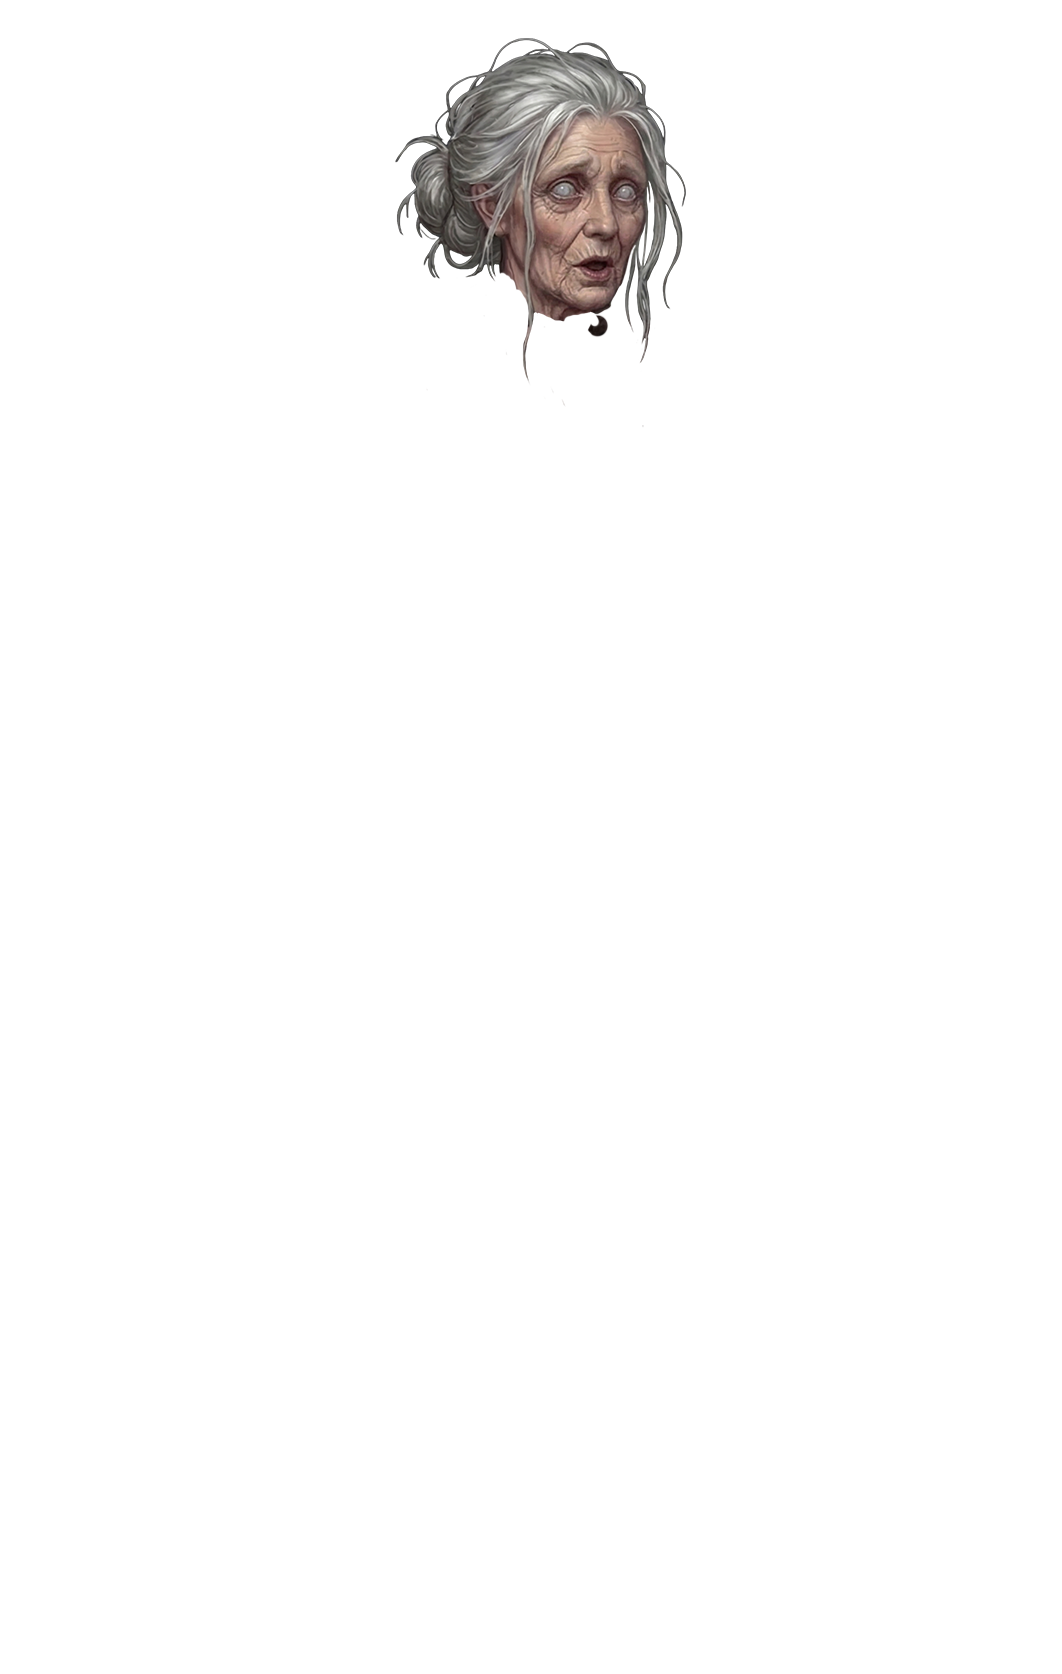
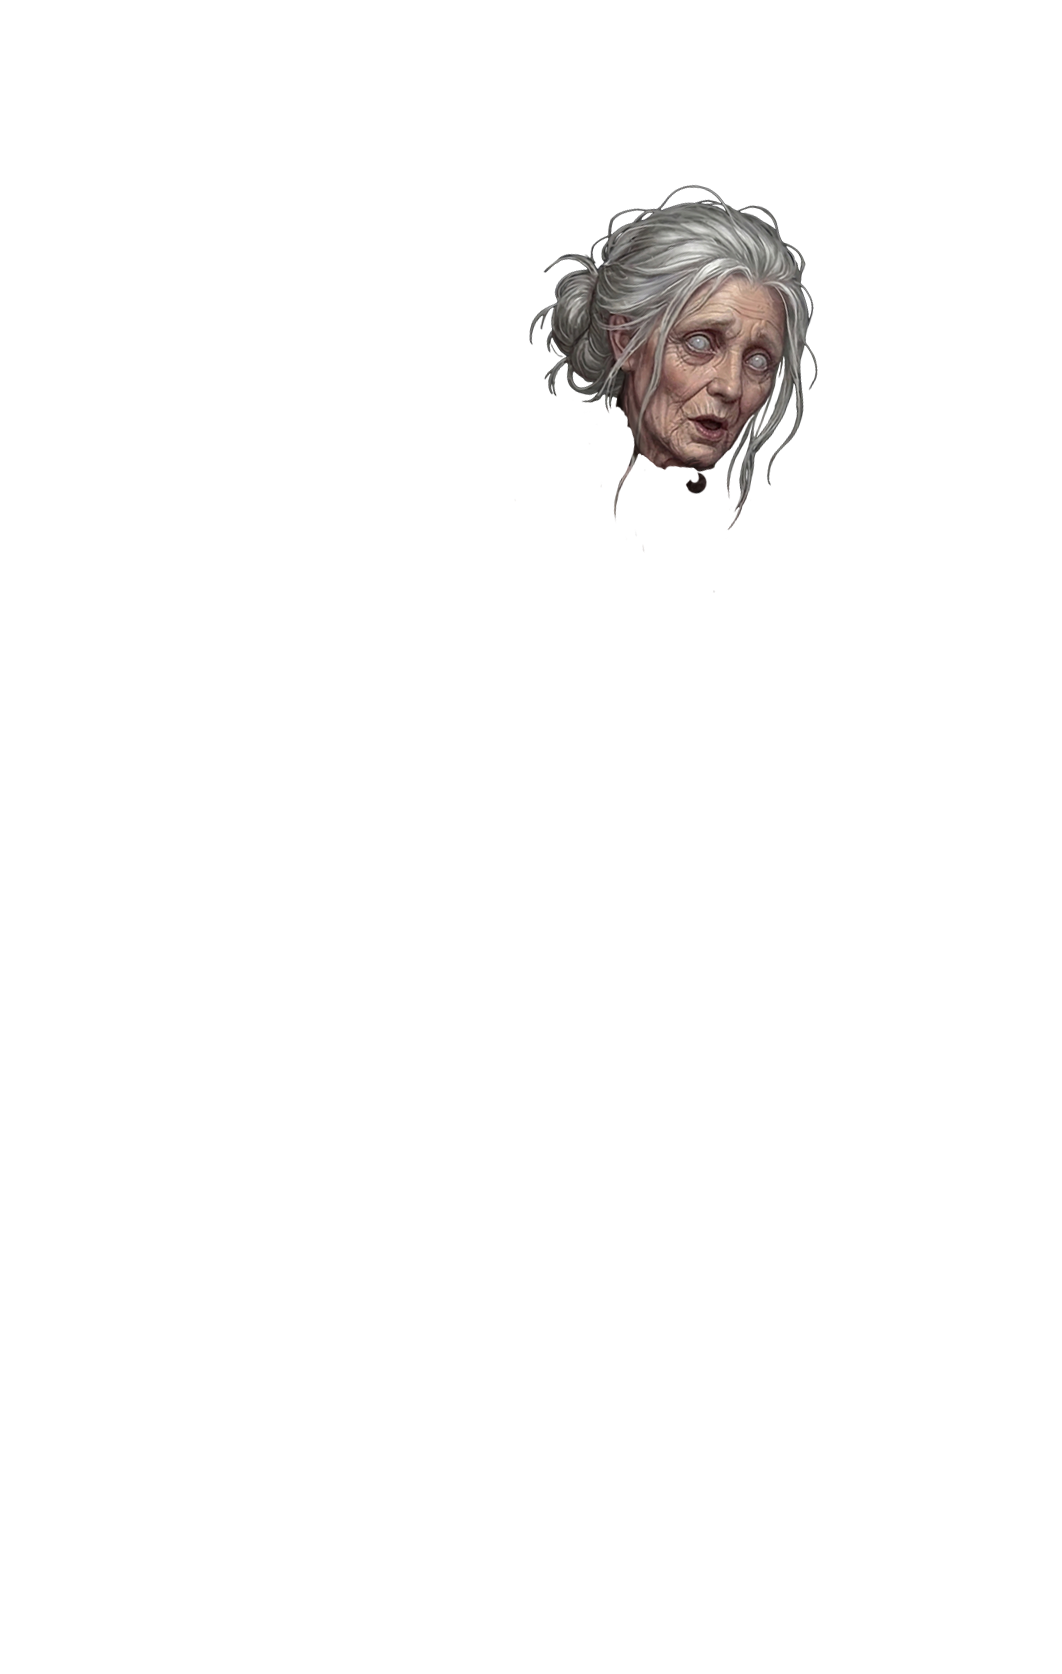
Fix chapter 3 crone visibility, placeholder maze screen, and background timing
- Add showPlaceholderScreen() for mid-dialogue full-screen placeholder cards
- Chapter 3: replace maze narrator line with placeholder screen
- Chapter 3: set clockmakers_guild_door background on watchmaker's guild line
- Chapter 3: fix crone characterFolders mapping and addie_home expression key
- Chapter 3: fix multiple JSON syntax errors (trailing commas, missing braces)
- Show chapter title card immediately at full opacity to prevent background flash
- Update crone images; rename crone_default_neutra.png → crone_default_neutral.png

Changed region(s): [[0.3729, 0.0311, 0.7768, 0.3106]]

diff --git a/src/scenes/ChapterScene.js b/src/scenes/ChapterScene.js
@@ -261,11 +261,8 @@ export default class ChapterScene extends Phaser.Scene {
         this.audioManager.playMusic(this.chapterData.assets.music);
       }
 
-      // Fade in, then show chapter title card
-      this.cameras.main.fadeIn(800, 0, 0, 0);
-      this.time.delayedCall(800, () => {
-        this.showChapterTitle(() => this.startNarrative());
-      });
+      // Show chapter title card immediately (covers background/characters), then start narrative on dismiss
+      this.showChapterTitle(() => this.startNarrative());
     }).catch(error => {
       console.error('Error loading chapter:', error);
       this.loadingText.setText('Failed to load chapter. Returning to menu...');
@@ -914,7 +911,7 @@ export default class ChapterScene extends Phaser.Scene {
     const w = this.cameras.main.width;
     const h = this.cameras.main.height;
 
-    const overlay = this.add.container(0, 0).setDepth(500).setAlpha(0);
+    const overlay = this.add.container(0, 0).setDepth(500).setAlpha(1);
 
     const bg = this.add.rectangle(w / 2, h / 2, w, h, 0x000000, 0.95);
     overlay.add(bg);
@@ -943,9 +940,6 @@ export default class ChapterScene extends Phaser.Scene {
     }).setOrigin(0.5);
     overlay.add(tapText);
     this.tweens.add({ targets: tapText, alpha: 0, duration: 900, yoyo: true, repeat: -1, ease: 'Sine.easeInOut' });
-
-    // Fade in overlay
-    this.tweens.add({ targets: overlay, alpha: 1, duration: 600 });
 
     // Tap anywhere to dismiss
     const hitZone = this.add.rectangle(w / 2, h / 2, w, h, 0x000000, 0).setDepth(501).setInteractive();
@@ -1060,7 +1054,67 @@ export default class ChapterScene extends Phaser.Scene {
     this.dialogueBox.add([bg, this.speakerText, this.dialogueText, this.continueIndicator]);
   }
 
+  showPlaceholderScreen(line, onComplete) {
+    const width = this.cameras.main.width;
+    const height = this.cameras.main.height;
+
+    if (line.background && this.backgroundImage) {
+      this.changeBackground(line.background);
+    }
+
+    if (line.hideCharacters === true) {
+      this.hideAllCharacters();
+    }
+
+    const overlay = this.add.rectangle(width / 2, height / 2, width, height, 0x000000, 0.92)
+      .setDepth(600)
+      .setInteractive();
+
+    const text = this.add.text(width / 2, height / 2 - 40, line.placeholder, {
+      fontSize: '28px',
+      fontFamily: 'Courier New',
+      color: '#c4a575',
+      align: 'center',
+      wordWrap: { width: width - 120 }
+    }).setOrigin(0.5).setDepth(601);
+
+    const clickHint = this.add.text(width / 2, height / 2 + 80, '[ Click to continue ]', {
+      fontSize: '20px',
+      fontFamily: 'Courier New',
+      color: '#888888',
+      fontStyle: 'italic'
+    }).setOrigin(0.5).setDepth(601);
+
+    // Blink the hint
+    this.tweens.add({
+      targets: clickHint,
+      alpha: 0,
+      duration: 700,
+      yoyo: true,
+      repeat: -1
+    });
+
+    overlay.once('pointerdown', () => {
+      this.tweens.add({
+        targets: [overlay, text, clickHint],
+        alpha: 0,
+        duration: 400,
+        onComplete: () => {
+          overlay.destroy();
+          text.destroy();
+          clickHint.destroy();
+          if (onComplete) onComplete();
+        }
+      });
+    });
+  }
+
   displayDialogueLine(line, onComplete) {
+    if (line.placeholder) {
+      this.showPlaceholderScreen(line, onComplete);
+      return;
+    }
+
     this.speakerText.setText(line.speaker || '');
     this.dialogueText.setText('');
 
